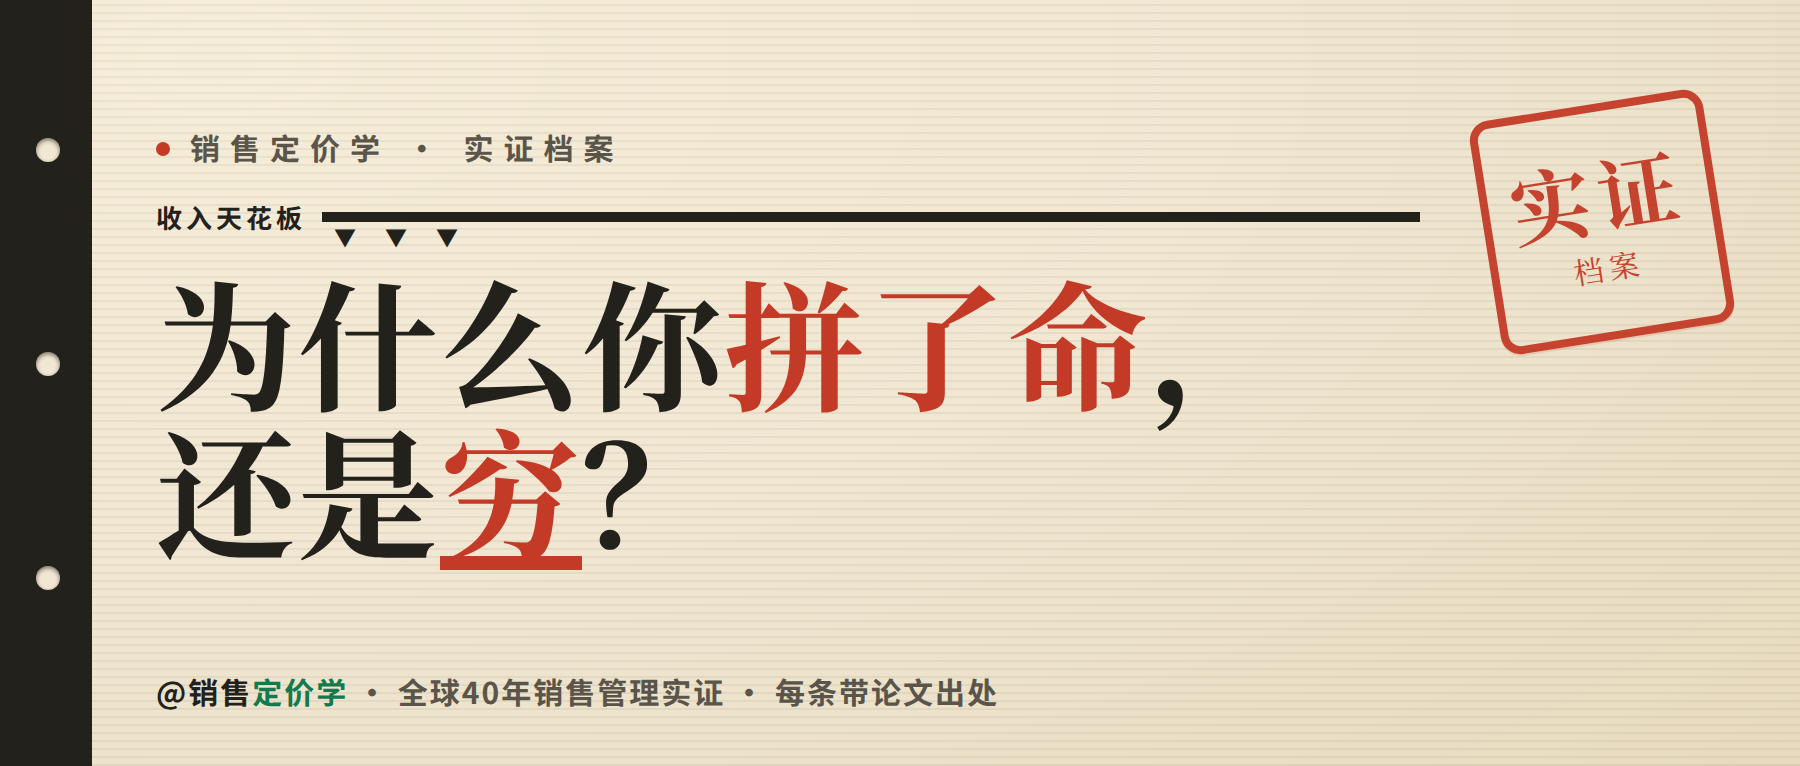
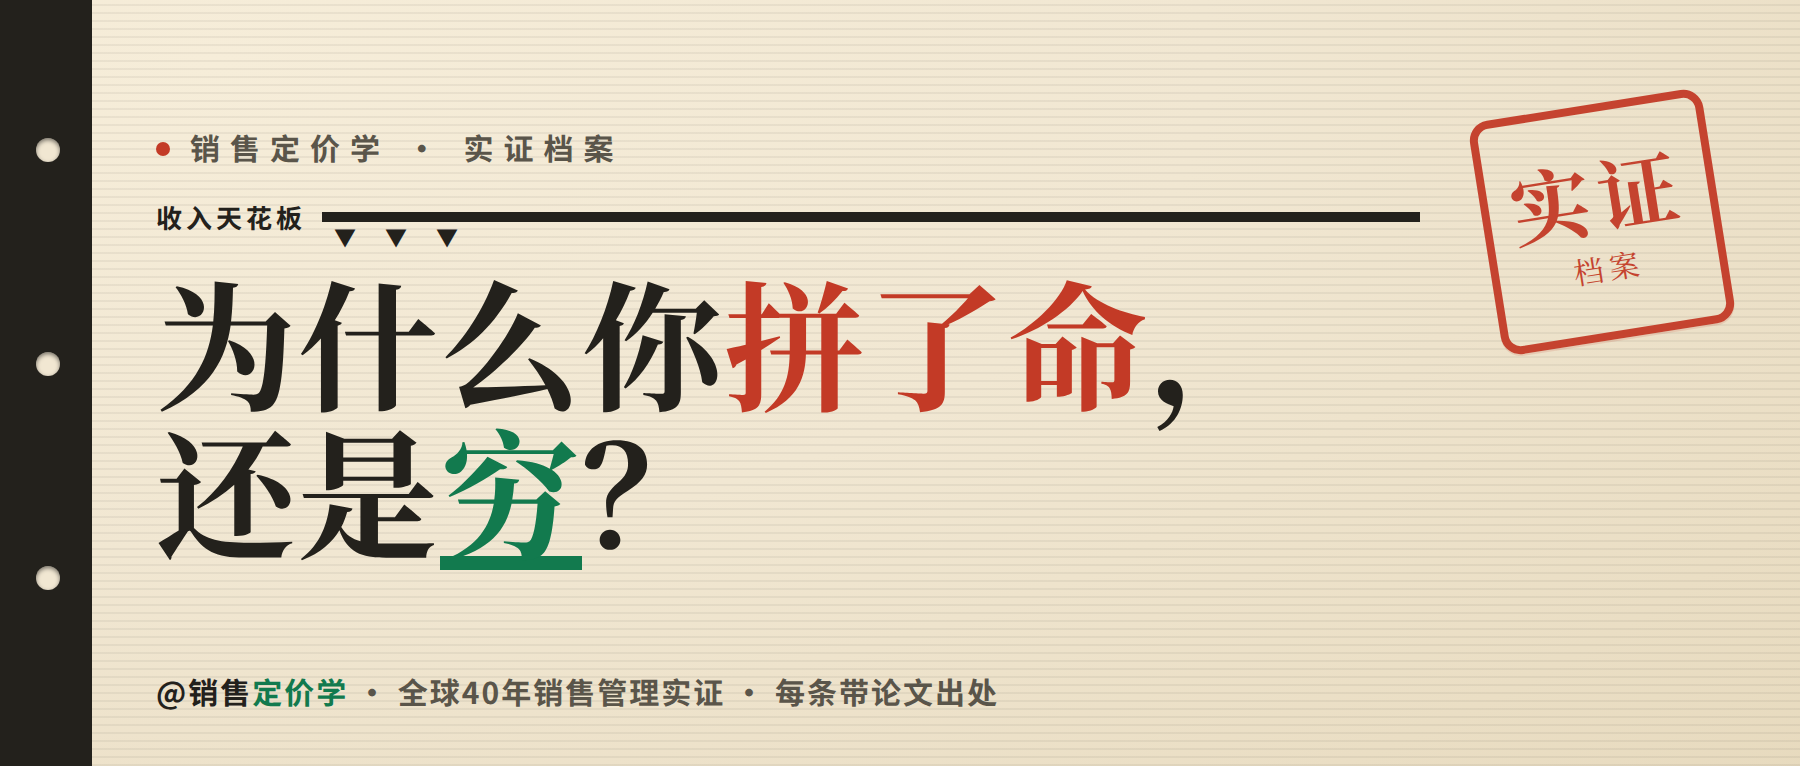
运营：封面标题改为红绿撞色（拼了命=红 / 穷=墨绿），凑齐黑+红+绿三色识别

Changed region(s): [[0.2489, 0.5705, 0.3422, 0.7507]]

diff --git a/theory-cards/运营/covers/cover.js b/theory-cards/运营/covers/cover.js
@@ -34,7 +34,8 @@ function html(fmt){
   .ceilbar::after{content:"▼ ▼ ▼";position:absolute;left:6px;top:${horiz?5:7}px;font-size:${horiz?11:15}px;color:#23211C;letter-spacing:6px;}
   h1{font-weight:900;line-height:1.06;letter-spacing:1px;}
   h1 .red{color:#C33A26;}
-  .u{display:inline-block;border-bottom:${horiz?7:10}px solid #C33A26;padding-bottom:2px;line-height:.9;}
+  h1 .green{color:#127A4E;}
+  .u{display:inline-block;border-bottom:${horiz?7:10}px solid currentColor;padding-bottom:2px;line-height:.9;}
   .handle{font-family:"Noto Sans CJK SC",sans-serif;color:#5A554A;font-weight:700;}
   .handle b{color:#23211C;}
   .handle .g{color:#127A4E;}
@@ -56,7 +57,7 @@ function html(fmt){
       <div class="ceil" style="font-size:13px;letter-spacing:2px;margin-bottom:16px;">
         <span>收入天花板</span><span class="ceilbar"></span>
       </div>
-      <h1 style="font-size:70px;">为什么你<span class="red">拼了命</span>，<br>还是<span class="u red">穷</span>？</h1>
+      <h1 style="font-size:70px;">为什么你<span class="red">拼了命</span>，<br>还是<span class="u green">穷</span>？</h1>
     </div>
     <div class="handle" style="position:absolute;left:78px;bottom:26px;font-size:15px;letter-spacing:1px;">
       <b>@销售<span class="g">定价学</span></b> · 全球40年销售管理实证 · 每条带论文出处
@@ -73,7 +74,7 @@ function html(fmt){
       <div class="ceil" style="font-size:20px;letter-spacing:3px;margin-bottom:30px;width:70%;">
         <span>收入天花板</span><span class="ceilbar"></span>
       </div>
-      <h1 style="font-size:132px;">为什么<br>你<span class="red">拼了命</span>，<br>还是<span class="u red">穷</span>？</h1>
+      <h1 style="font-size:132px;">为什么<br>你<span class="red">拼了命</span>，<br>还是<span class="u green">穷</span>？</h1>
     </div>
     <div class="handle" style="position:absolute;left:120px;bottom:64px;font-size:26px;letter-spacing:1px;">
       <b>@销售<span class="g">定价学</span></b><br>
